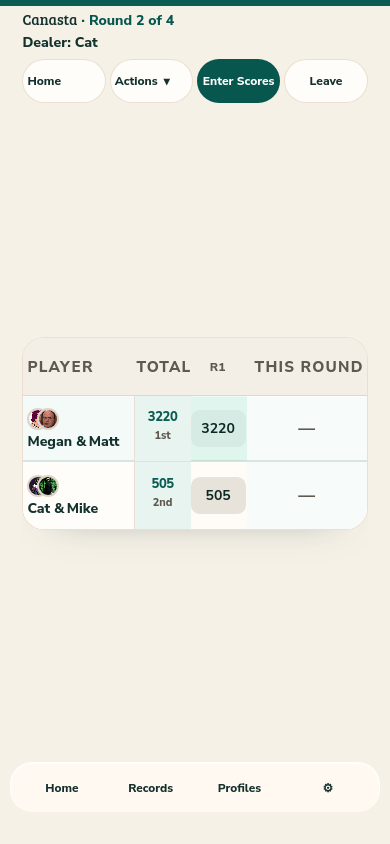
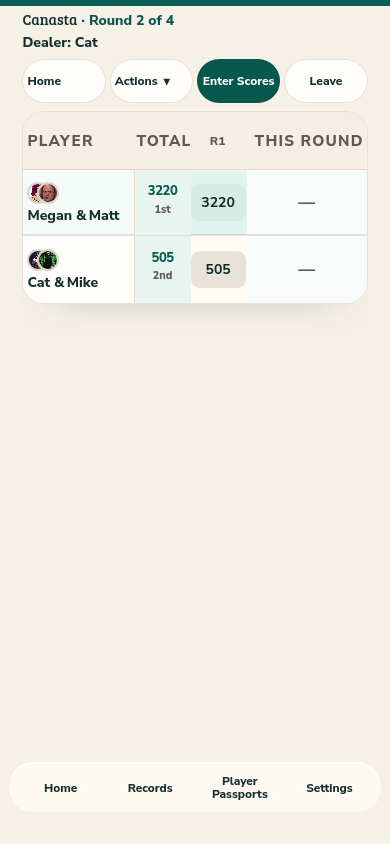
Pin the Canasta card under the header.
The two-team card still hugs its own height. It no longer sits in the middle of the cream. Four-player and eight-player boards stay under the header.

diff --git a/public/assets/slice2.css b/public/assets/slice2.css
@@ -4629,6 +4629,10 @@ html.slice2-tv body.active-match-view:has(#scorecard-capture.scorecard-hug-rows)
   justify-content: center !important;
   align-items: stretch;
 }
+/* Canasta's two-team card stays short, and it sits under the header like every other board. */
+html.slice2-tv body.active-match-view:has(#game-screen[data-game='Hand and Foot'] #scorecard-capture.scorecard-hug-rows) .landscape-only {
+  justify-content: flex-start !important;
+}
 
 /* Phone scoreboard: visual-viewport shell, scrolling seats, one header row.
    Desktop and iPad (761px and up) keep the long header. */
@@ -5470,7 +5474,7 @@ html.slice2-tv .s2-standing .wheel-badge {
   margin-left: auto !important;
   flex: 0 0 auto !important;
 }
-/* A two-team Canasta card ends at the last row. The phone shell still fills the screen. */
+/* A two-team Canasta card ends at the last row and stays at the top. The phone shell still fills the screen. */
 @media (max-width: 760px) {
   html.slice2-tv body.active-match-view #game-screen[data-game='Hand and Foot'] #scorecard-capture.scorecard-hug-rows,
   html.slice2-tv body.active-match-view #game-screen[data-game='Hand and Foot'] #scorecard-capture.scorecard-hug-rows .scorecard-live-layout,
